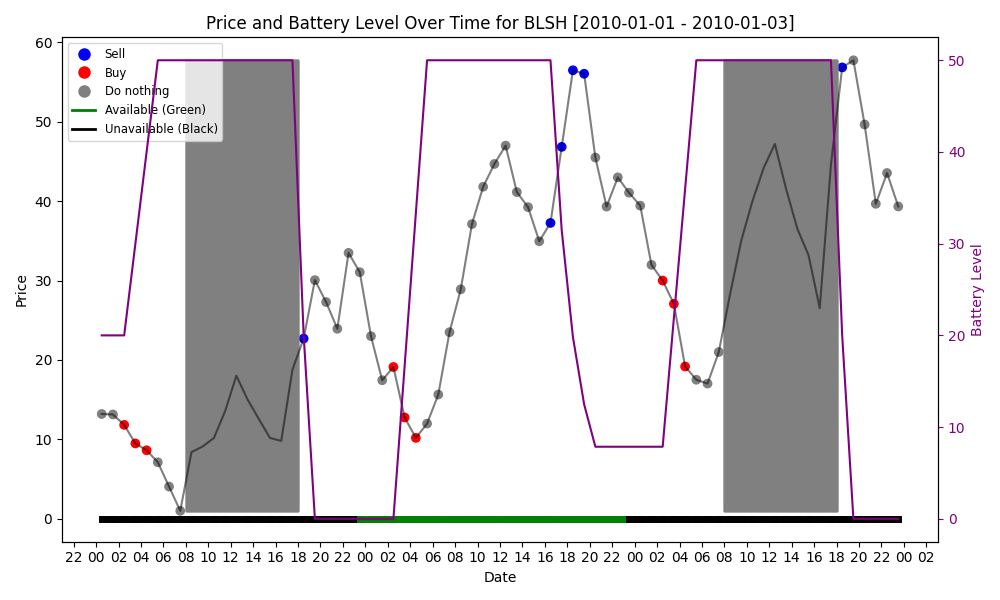
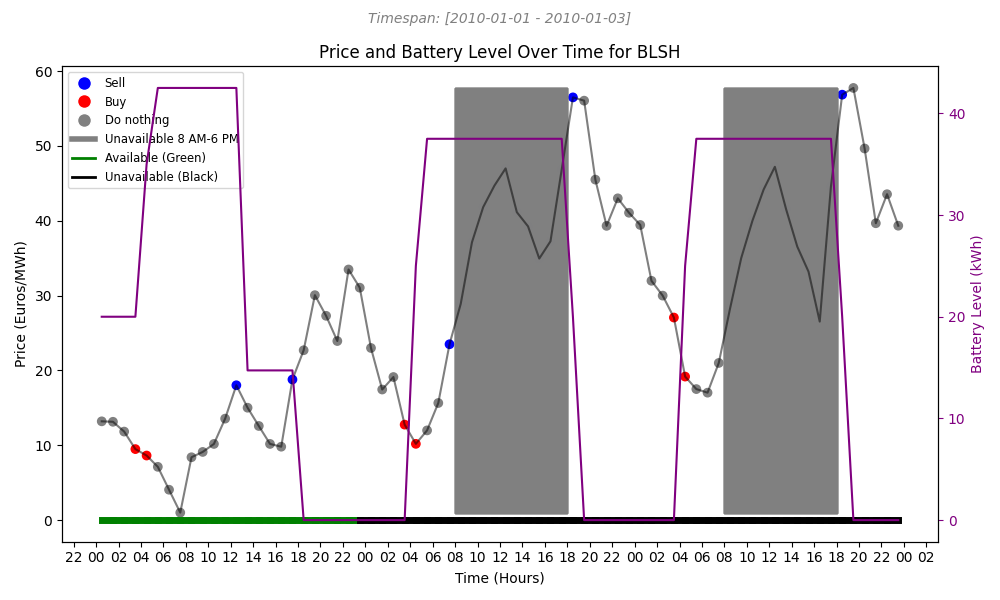
made subtitle for plot.

diff --git a/data/data_vis.py b/data/data_vis.py
@@ -276,7 +276,7 @@ def visualize_bat(df: pd.DataFrame, algorithm: str) -> None:
     # Adding battery level with secondary axis
     ax2 = ax1.twinx()
     ax2.plot(df['date'], df['battery'], label='Battery Level', color='purple')
-    ax2.set_ylabel('Battery Level', color='purple')
+    ax2.set_ylabel('Battery Level (kWh)', color='purple')
     ax2.tick_params('y', colors='purple')
 
     # Create custom legend elements for actions
@@ -303,7 +303,11 @@ def visualize_bat(df: pd.DataFrame, algorithm: str) -> None:
     # Add the combined custom legend to one of the axes
     ax1.legend(handles=combined_legend_elements, loc='upper left', fontsize='small')
 
-    plt.title(f'Price and Battery Level Over Time for {algorithm} [{df["date"].iloc[0].strftime("%Y-%m-%d")} - {df["date"].iloc[-1].strftime("%Y-%m-%d")}]')
+    # Add title
+    # Main title
+    plt.title(f'Price and Battery Level Over Time for {algorithm}', color='black')
+    plt.suptitle(f'Timespan: [{df["date"].iloc[0].strftime("%Y-%m-%d")} - {df["date"].iloc[-1].strftime("%Y-%m-%d")}]', color='gray', fontsize=10, style='italic')
+
     plt.tight_layout()
     plt.savefig(f'images/price_battery_level_{algorithm}.png')
 
@@ -330,14 +334,11 @@ def plot_revenue(log_env_ql, log_env_blsh, log_env_ema) -> None:
     plt.legend()
     plt.grid(True)
     plt.savefig('images/cumulative_reward.png')
+
+
 if __name__ == "__main__":
     # Clean the data
     df = clean_data('data/train.csv')
-
-    # Compute the median across each hour of the dataset
-    df_mean = df.mean()
-    print(df_mean)
-
     # # Add date columns
     # df = add_date_columns(df)
     # # Save the DataFrame to a csv file

diff --git a/algorithms.py b/algorithms.py
@@ -203,6 +203,7 @@ class BuyLowSellHigh:
           self.amount = self.action
           # Append the action to the history
           self.buy = 2 * price
+      # Sell in the evening
       elif 7 <= state[1] <= 20 and price >= self.buy:
           self.action = state[0]
           
